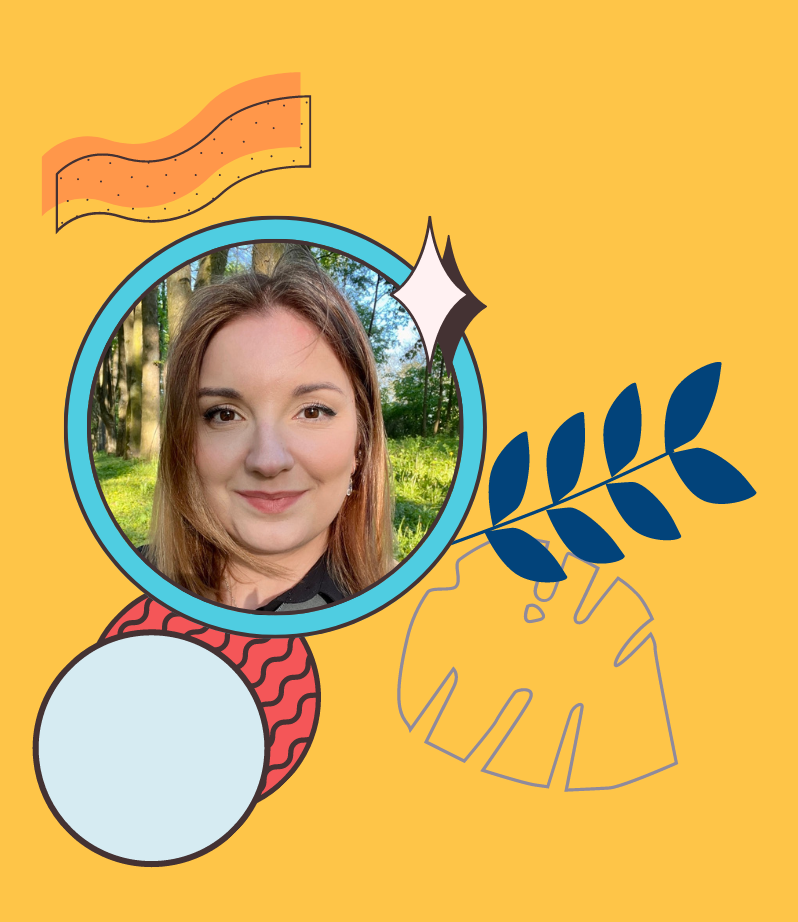
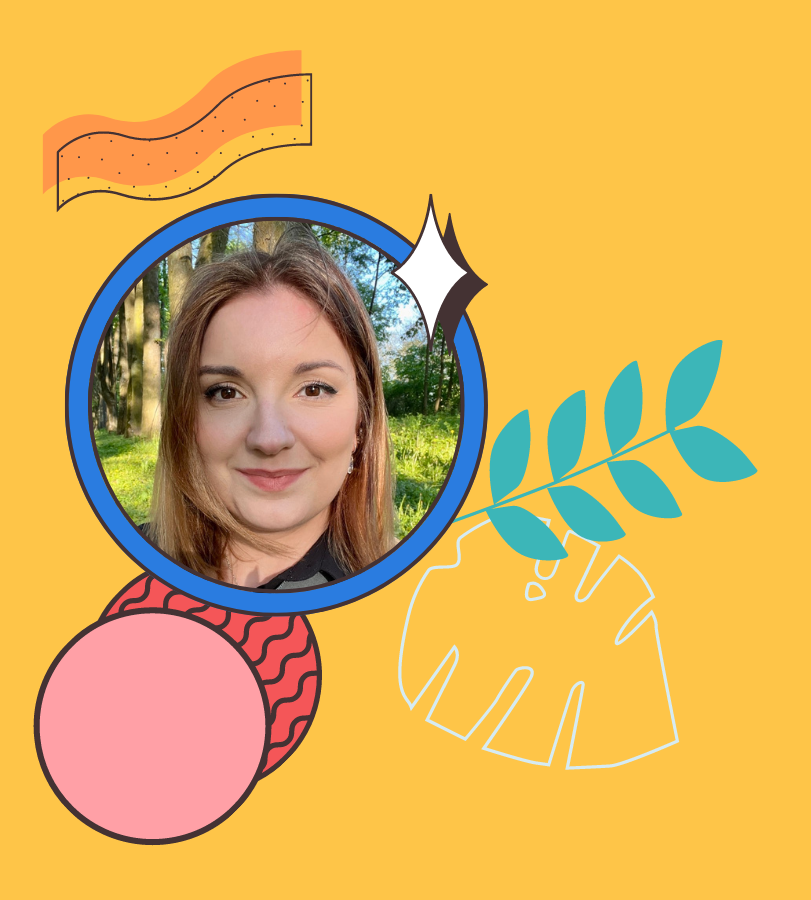
finished about page, added JS functionality

Changed region(s): [[0.0301, 0.0311, 0.9624, 0.9644]]

diff --git a/index.html b/index.html
@@ -51,14 +51,65 @@
           <img src="./images/about-bg.png" alt="profile picture with colorful graphics">
         </div>
         <div class="about-col-2">
-          <h1>Hello, my name is Karolina Kulpinska <br>
+          <h1 class="subtitle">Hello, my name is Karolina Kulpinska <br>
           and I'm a front-end web developer <br>
           based in Accrington, UK.</h1>
+          <p>I have recently finished the Intro to Web Dev Kickstarter by CodeFirstGirls and I'm ready to play! With a background in art & design, I've got a diverse set of skills ranging from illustration and art, throughout graphic design, all the way to HTML, CSS & JavaScript. I'm a well organised person, committed and with an excellent attention to detail. I'm also ambitious and good at achieving deadlines and prioritizing tasks.</p>
+
+          <div class="tab-titles">
+            <p class="tab-links active-link" onclick="opentab('skills')">Skills</p>
+            <p class="tab-links" onclick="opentab('experience')">Experience</p>
+            <p class="tab-links" onclick="opentab('education')">Education</p>
+          </div>
+          <div class="tab-contents active-tab" id="skills">
+            <ul>
+              <li><span>Front-End Web Development</span><br>HTML/CSS/JavaScript</li>
+              <li><span>Graphic Design</span><br>Adobe Suite</li>
+              <li><span>Illustration</span><br>Traditional/Digital Art</li>
+            </ul>
+          </div>
+          <div class="tab-contents" id="experience">
+            <ul>
+              <li><span>2023-current</span><br>Lorem ipsum dolor sit.</li>
+              <li><span>2022-2023</span><br>Amet consectetur adipisicing elit.</li>
+              <li><span>2021-2022</span><br>Impedit voluptate ex natus maxime nesciunt.</li>
+            </ul>
+          </div>
+          <div class="tab-contents" id="education">
+            <ul>
+              <li><span>2024</span><br>CFG Degree by CodeFirstGirls</li>
+              <li><span>2023</span><br>Intro to Python Kickstarter by CodeFirstGirls</li>
+              <li><span>2023</span><br>Intro to Web Dev Kickstarter by CodeFirstGirls</li>
+              <li><span>2015</span><br>BA in Graphic Design at Academy of Fine Arts in Łódź, Poland</li>
+            </ul>
+          </div>
         </div>
       </div>
 
     </div> 
   </div>
   
+  <!-- JavaScript functions and variables -->
+  <script>
+    var tablinks = document.getElementsByClassName("tab-links");
+    var tabcontents = document.getElementsByClassName("tab-contents");
+
+    function opentab(tabname){
+      // hides the tab underline:
+      for(
+        tablink of tablinks) {
+        tablink.classList.remove("active-link");
+      }
+      // hides the contents of the tab:
+      for(
+        tabcontent of tabcontents) {
+        tabcontent.classList.remove("active-tab");
+      }
+      // displays underline when clicked:
+      event.currentTarget.classList.add("active-link");
+      // displays tab contents when clicked:
+      document.getElementById(tabname).classList.add("active-tab");
+    }
+  </script>
 </body>
 </html>

diff --git a/style.css b/style.css
@@ -54,7 +54,7 @@ nav ul li a::after {
   content: '';
   width: 0;
   height: 3px;
-  background: #fec548;
+  background: #3cb6b8;
   position: absolute;
   left: 0;
   bottom: -6px;
@@ -66,18 +66,21 @@ width: 100%;
 }
 
 .header-text h1{
-  margin-top: 20px;
+  margin-top: 40px;
   font-size: 60px;
+  line-height: 80px;
 }
 
 .header-text p{
   font-size: 30px;
+  line-height: 50px;
+  margin-top: 40px;
 }
 
 code {
-  background-color: #fff1f2;
-  border: 1px solid #999;
-  padding: 3px;
+  background-color: #d6ebf2;
+  border: 1px solid #443233;
+  padding: 0px 15px 8px 15px;
 }
 
 .draw-font {
@@ -94,4 +97,79 @@ code {
   display: flex;
   justify-content: space-between;
   flex-wrap: wrap;
+}
+
+.about-col-1 {
+  flex-basis: 45%;
+}
+
+.about-col-1 img {
+  width: 100%;
+  border-radius: 15px;
+}
+
+.about-col-2 {
+  flex-basis: 50%;
+}
+
+.about-col-2 p {
+  margin-top: 20px;
+  font-size: 20px;
+  line-height: 30px;
+}
+
+.subtitle {
+  font-size: 40px;
+  font-weight: 600;
+  line-height: 60px;
+  margin-bottom: 40px;
+}
+
+.tab-titles {
+  display: flex;
+  margin: 20px 0 40px 0;
+}
+
+.tab-links {
+  margin-right: 50px;
+  font-size: 18px;
+  font-weight: 500;
+  cursor: pointer;
+  position: relative;
+}
+
+.tab-links::after{
+  content: '';
+  height: 3px;
+  width: 0;
+  background: #3cb6b8;
+  position: absolute;
+  left: 0;
+  bottom: -8px;
+  transition: 0.5s;
+}
+
+.tab-links.active-link::after {
+  width: 50%;
+}
+
+.tab-contents ul li {
+  list-style: none;
+  margin: 10px 0;
+  color: #443233;
+}
+
+.tab-contents ul li span {
+  font-size: 14px;
+  color: #3cb6b8;
+}
+
+/* hides all contents of tabs */
+.tab-contents {
+  display: none;
+}
+
+/* displays only contents of an active tab */
+.tab-contents.active-tab {
+  display: block;
 }

diff --git a/styleguide.md b/styleguide.md
@@ -1,8 +1,6 @@
 <!-- COLOUR PALETTE -->
 <!-- main -->
 background-color: #ffffff;
-background-accent: #fff1f2;
-background-accent2: #f2e9e6;
 font-color: #443233;
 buttons: #ff974a;
 
@@ -13,7 +11,6 @@ turquoise: #3cb6b8;
 powder-blue: #d6ebf2;
 light-blue: #9ddff3;
 orange: #ff974a;
-navy: #02437a;
 light-pink: #fe95a5;
 purple-grey: #8f8a9c;
 medium-yellow: #fec548;
